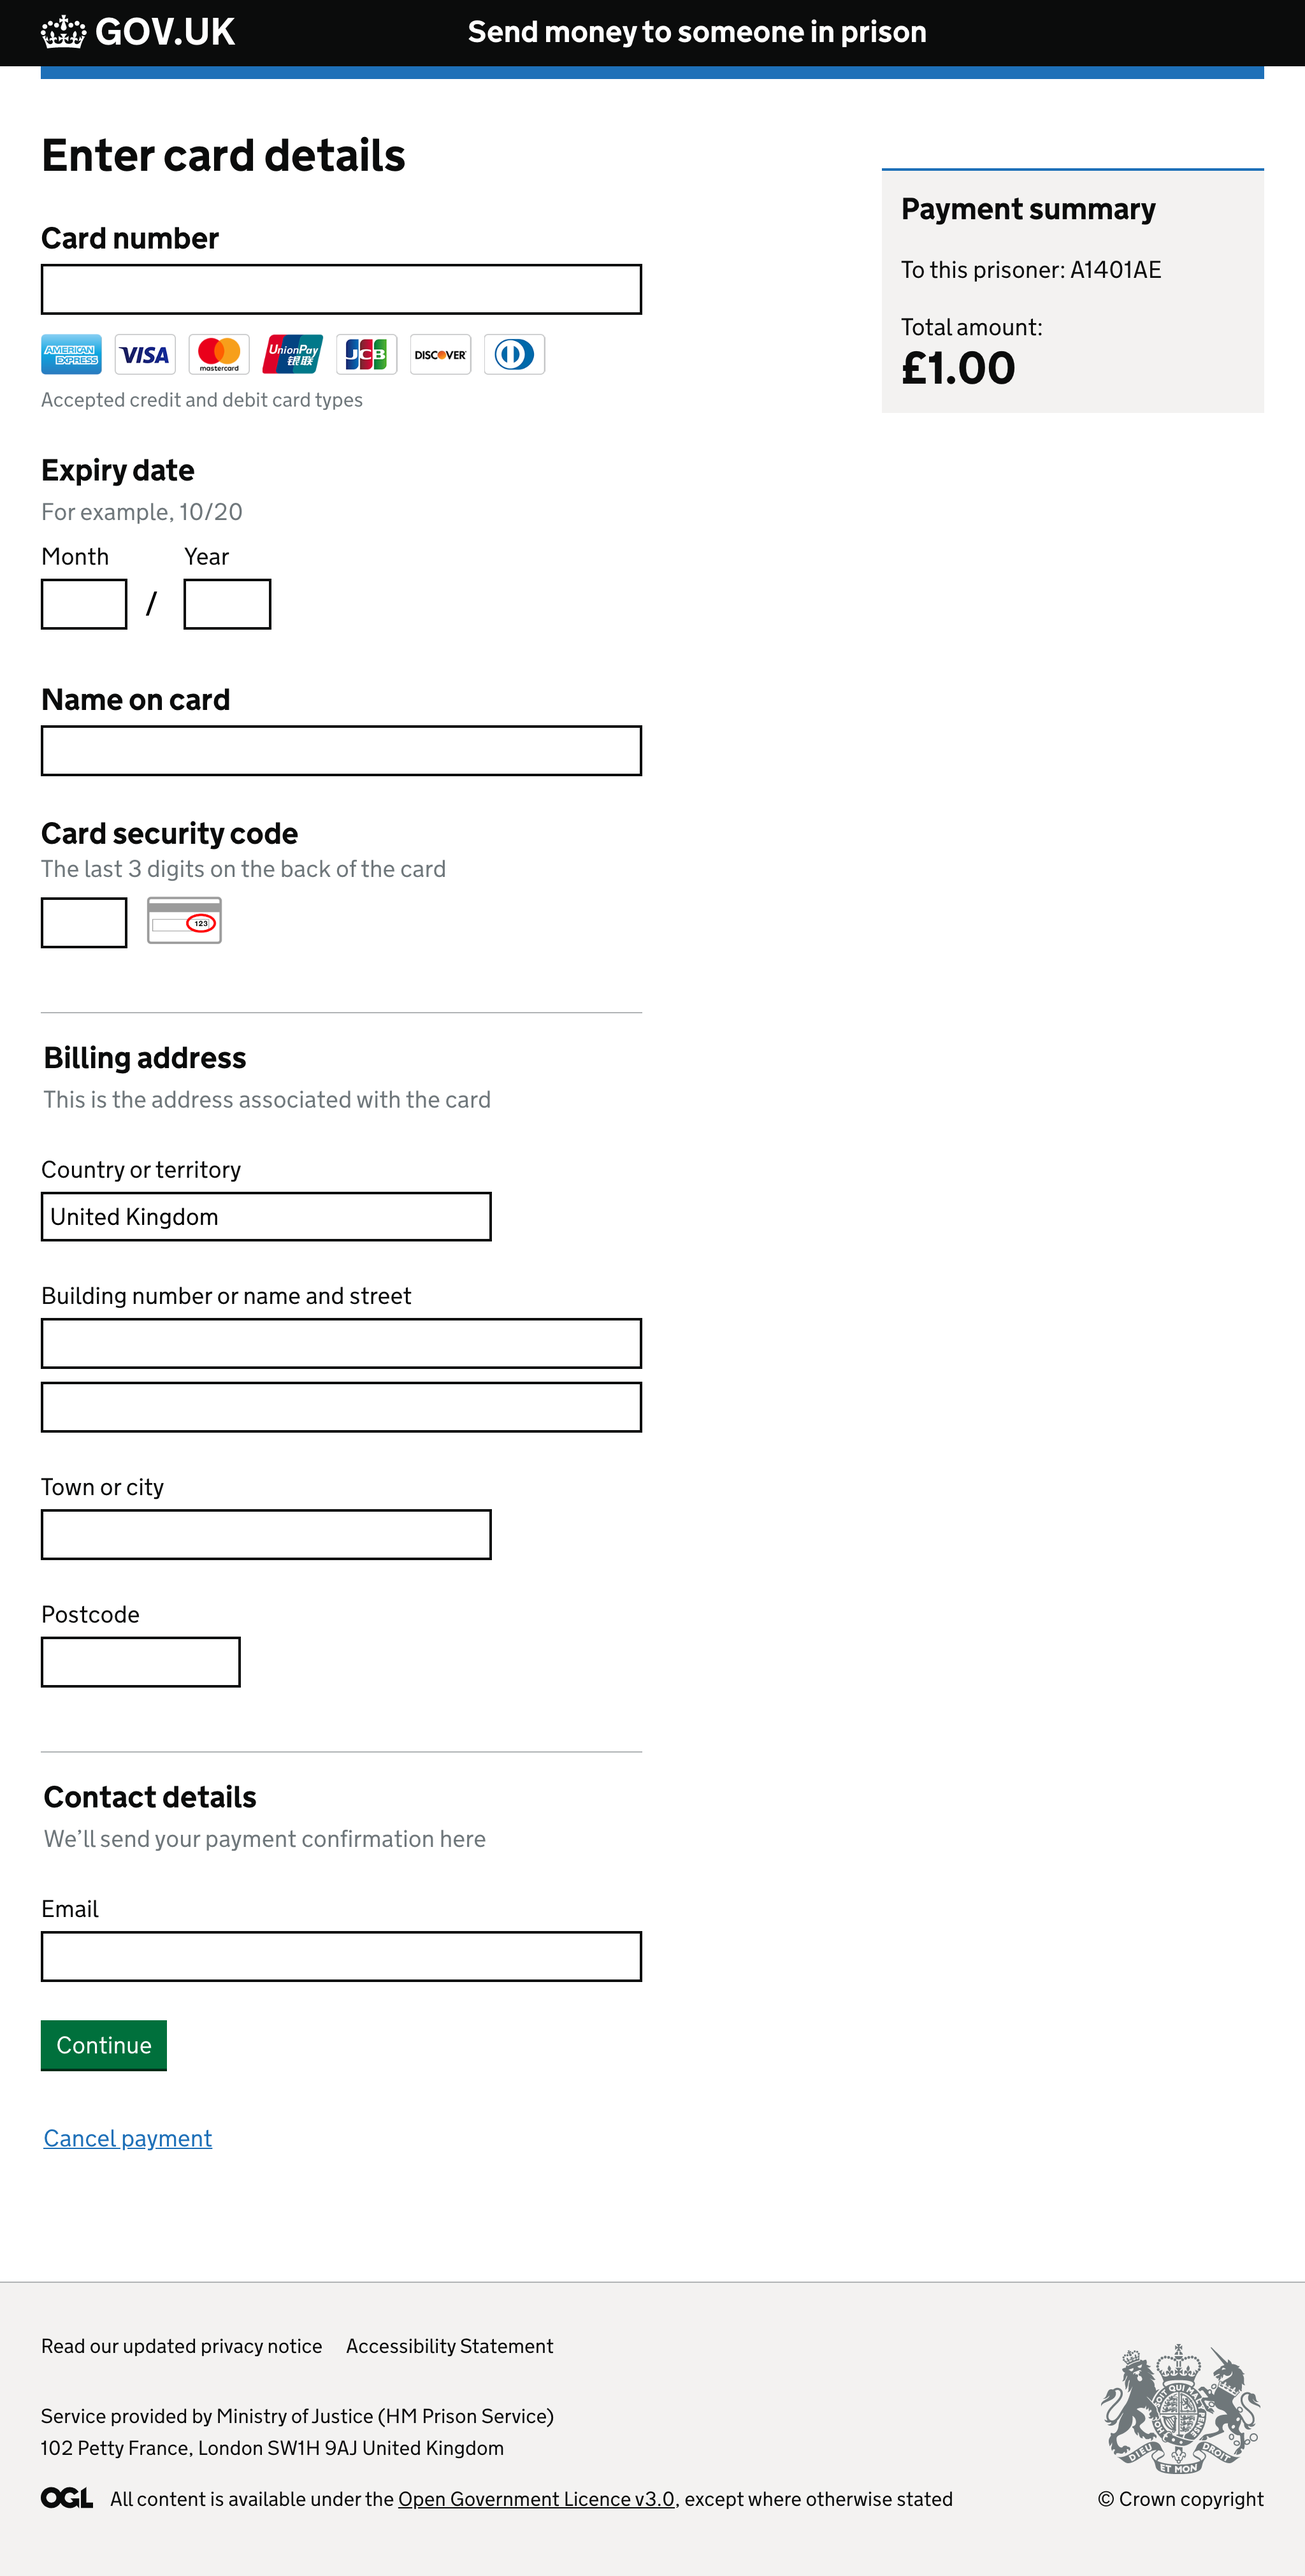
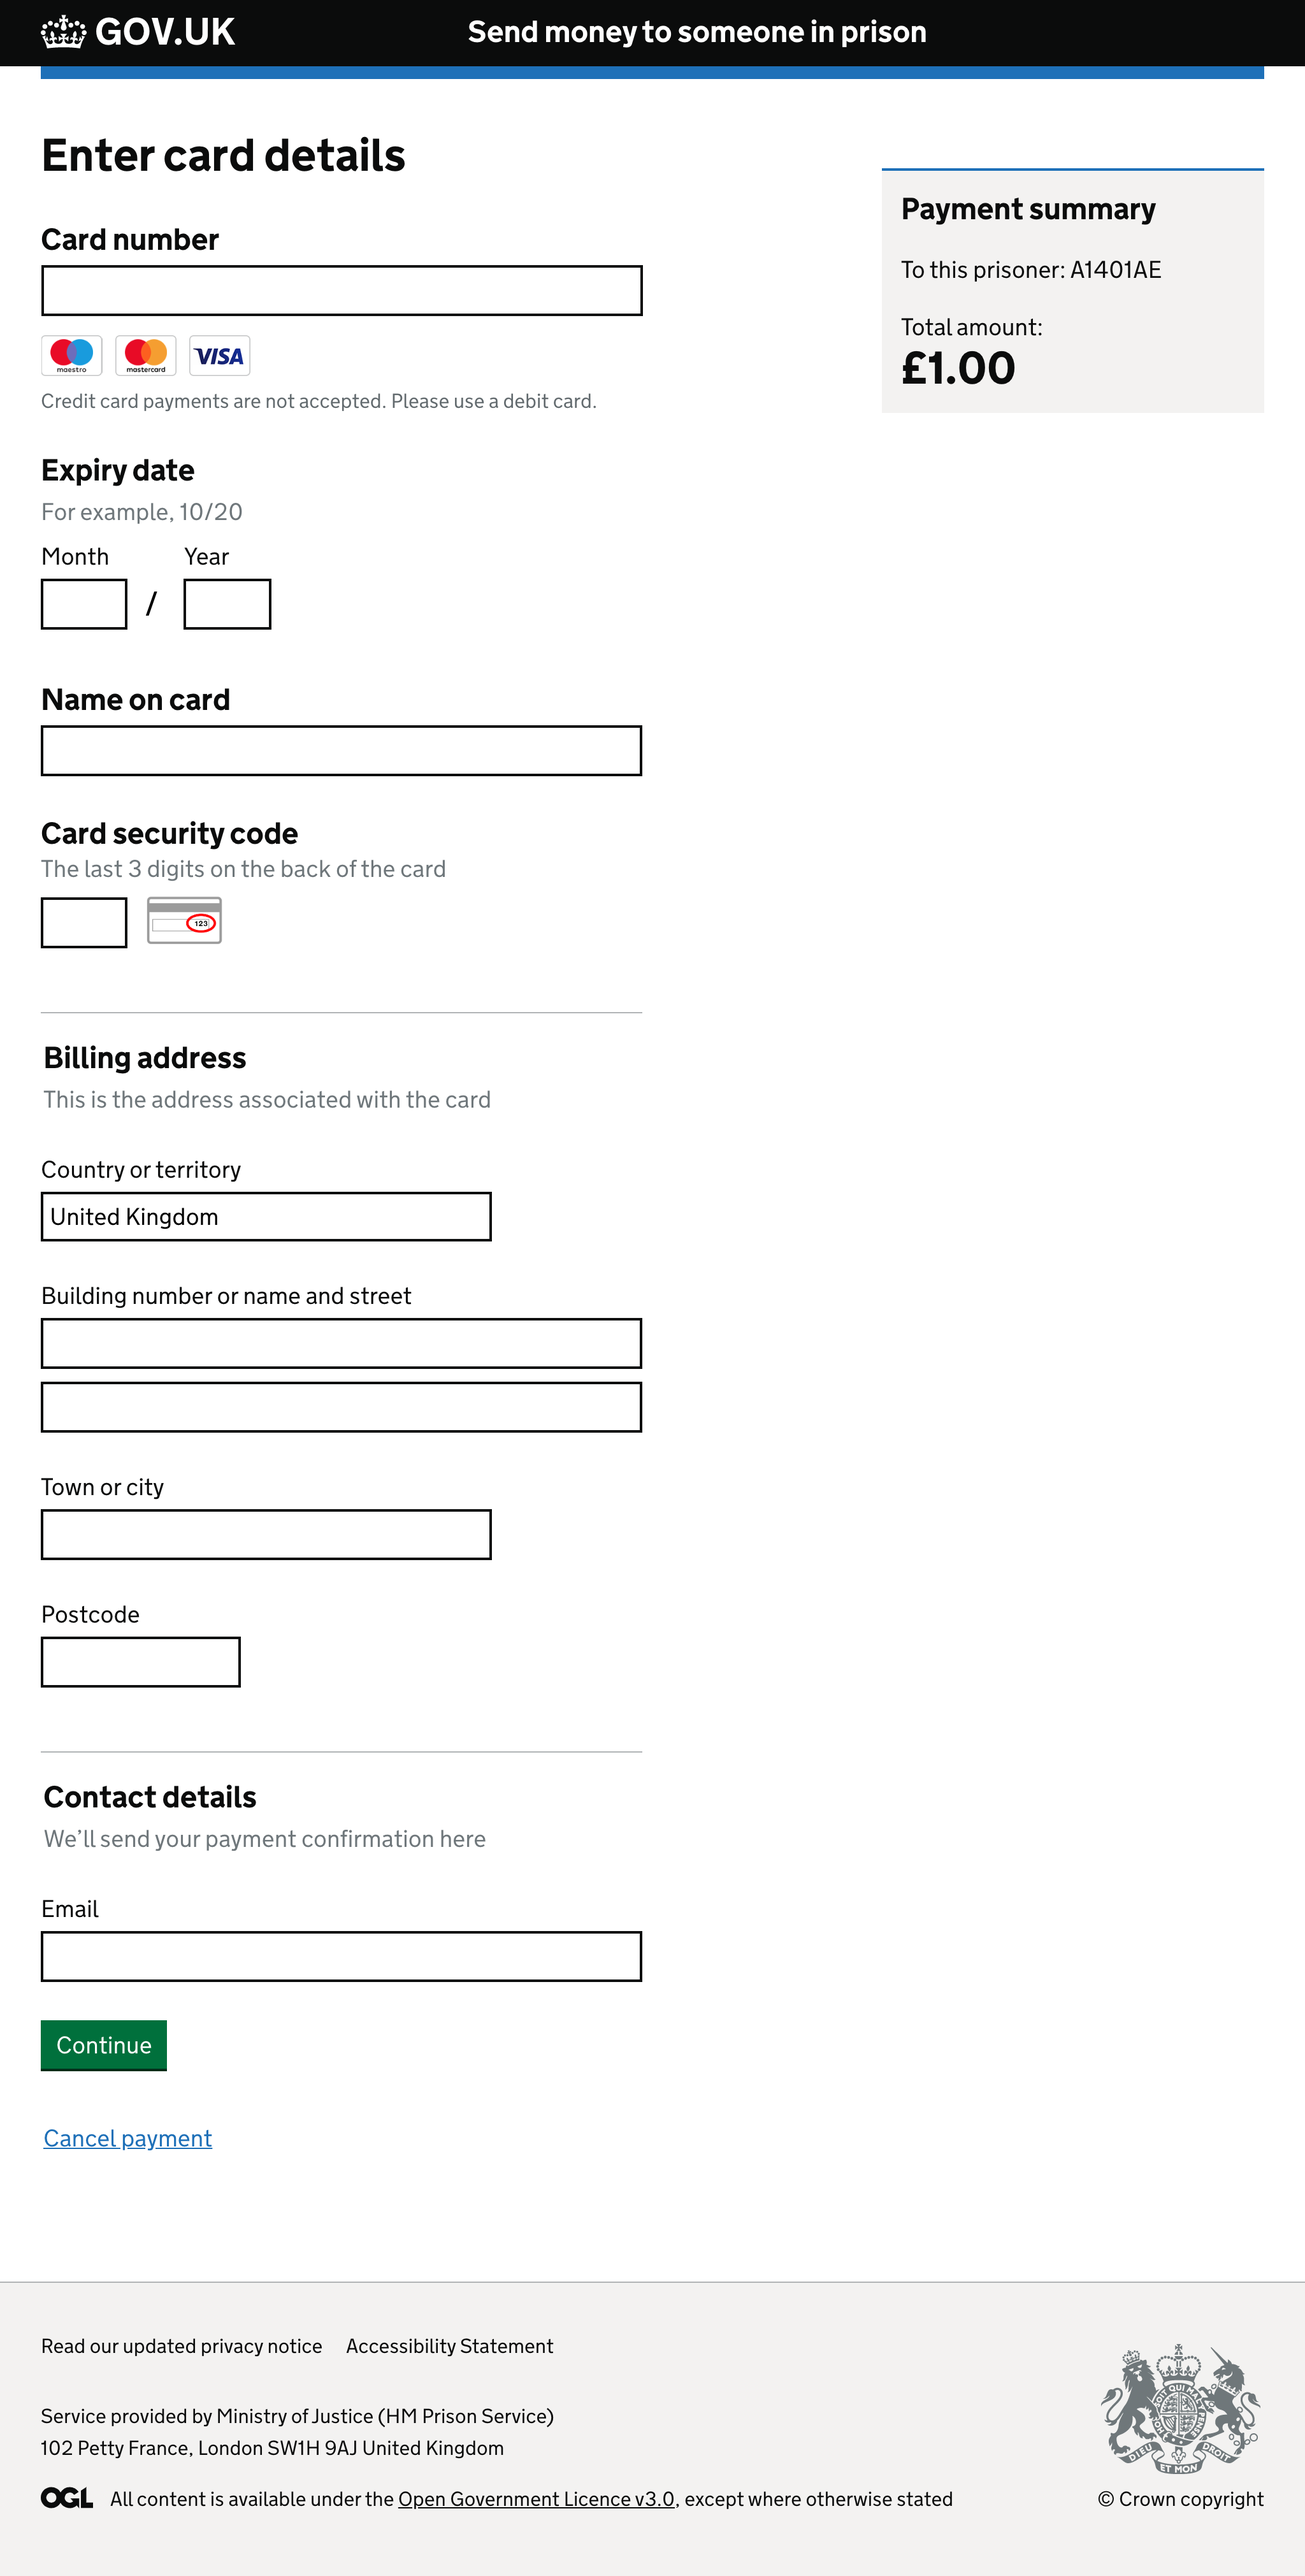
banking option 4 added

Changed region(s): [[0.0312, 0.0935, 0.3438, 0.1559], [0.375, 0.1247, 0.4062, 0.1559]]

diff --git a/app/views/debit_card_icon/pay_by_DD_04.html b/app/views/debit_card_icon/pay_by_DD_04.html
@@ -1,0 +1,61 @@
+{% extends "layout.html" %}
+
+{% block pageTitle %}
+Start page example
+{% endblock %}
+
+{% block header %}
+{{ govukHeader({
+  homepageUrl: "/",
+  serviceName: "Send money to someone in prison",
+  serviceUrl: "/"
+}) }}
+{% endblock %}
+
+<style media="screen">
+.holder{
+}
+</style>
+
+{% block content %}
+<div class="govuk-grid-row">
+  <div class="govuk-grid-column-two-thirds">
+
+    <h1 class="govuk-heading-xl">
+      Pay now by debit card
+    </h1>
+
+    <p class="govuk-body-l">Paying by debit card is the <strong>fastest</strong>, <strong>simplest</strong> and most <strong>reliable</strong> way of sending money to a prisoner - and it’s <strong>free</strong></p>
+    <p class="govuk-!-margin-bottom-4">
+      <span class="govuk-!-font-weight-bold govuk-body">Only Debit cards accepted</span>
+      <div style="position:relative; left:-6px; margin-bottom:-15px"><img src="/public/images/visa_type_logo@2x.png"  alt="" style="width:110px; padding-right:10px;"/>
+        <img src="/public/images/mastercard_debit.png"  alt="" style="width:100px; padding-right:8px; position:relative; top:-10px;"/>
+        <!-- <img src="/public/images/maestro_logo@2x.png"  alt="" style="width:100px; padding-right:8px; position:relative; top:-107px;"/> -->
+      </div>
+    </p>
+    <p class="govuk-!-margin-top-7">
+      You can complete your payment here using:
+      Mastercard, Visa and Maestro debit cards.
+      Money usually takes less than 3 working days to reach a prisoner’s account, but may take longer.
+    </p>
+    <p>
+      You’ll get email confirmation of payment.
+    </p>
+    <p>
+      You can make an international payment using a debit card.
+    </p>
+    <!-- <p class="govuk-inset-text">
+      From January 2020, you will no longer be able to use a pre-paid debit card.
+    </p> -->
+
+    <a class="govuk-button govuk-!-margin-top-3" data-module="govuk-button" href="enter_prisoner_details">
+      Continue
+    </a>
+    <a class="govuk-link" href="no_DD" style="display:block">I don't have a debit card</a>
+
+
+  </div>
+
+
+</div>
+{% endblock %}

diff --git a/app/views/index.html b/app/views/index.html
@@ -40,6 +40,7 @@ GOV.UK Prototype Kit
       <li><a href="/debit_card_icon/pay_by_DD">Option 01</a></li>
       <li><a href="/debit_card_icon/pay_by_DD_02">Option 02</a></li>
       <li><a href="/debit_card_icon/pay_by_DD_03">Option 03</a></li>
+      <li><a href="/debit_card_icon/pay_by_DD_04">Option 04</a></li>
     </ul>
   </div>
 </div>
